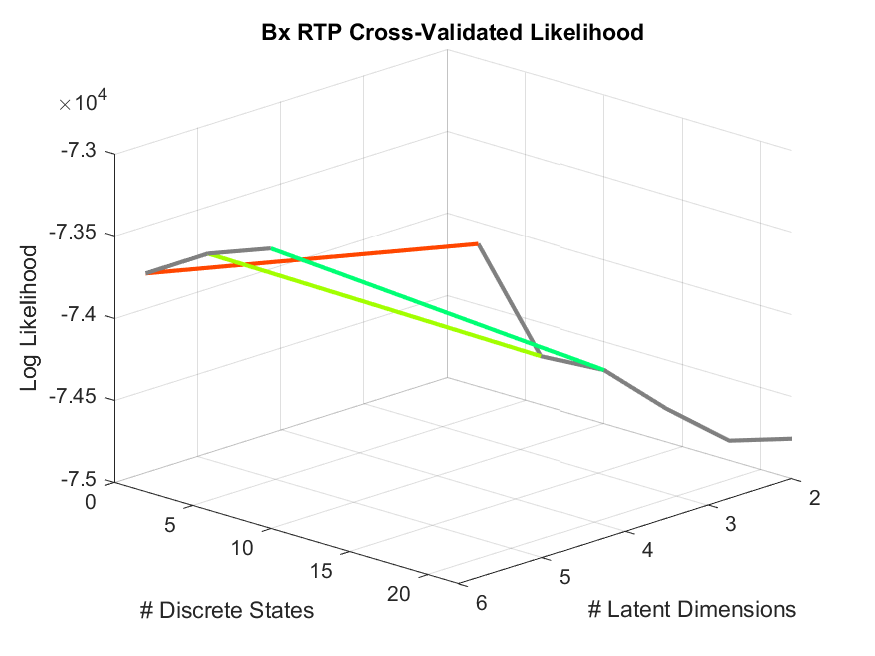
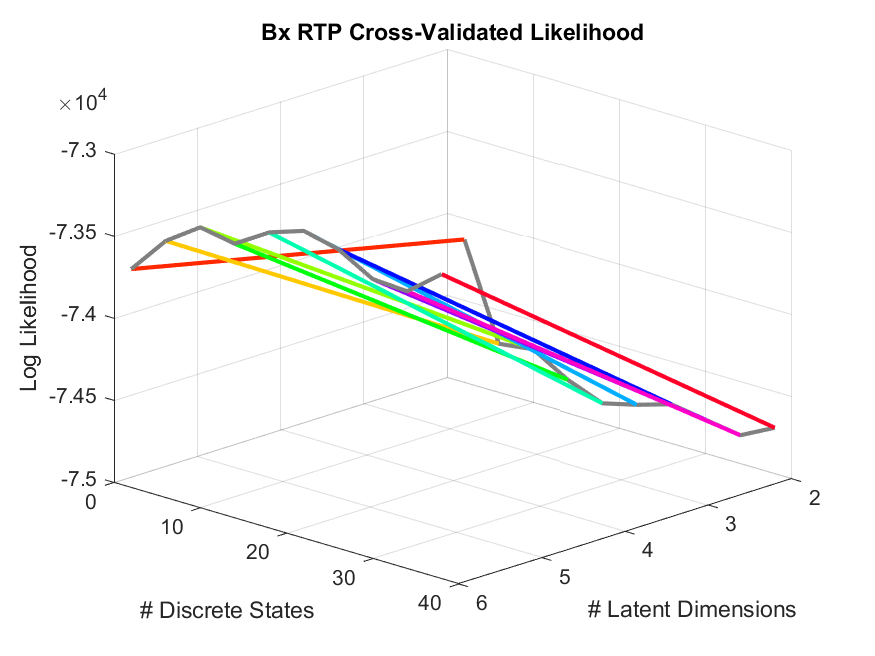
fixing my midway sins

diff --git a/code/python_switching_models/ll_csv_to_plot.m b/code/python_switching_models/ll_csv_to_plot.m
@@ -48,7 +48,7 @@ for iFolder = 1:length(ll_files_list)
         % folds in this given file and path.
 %         disp(length(temp(:,1)))
         end
-        if length(temp(:,1)) >= 5
+        if length(temp(:,1)) >= 1
             bits_per_spike(temp_bits_dim_num,temp_bits_state_num) = mean(temp(:,1));
         end
         clear temp
